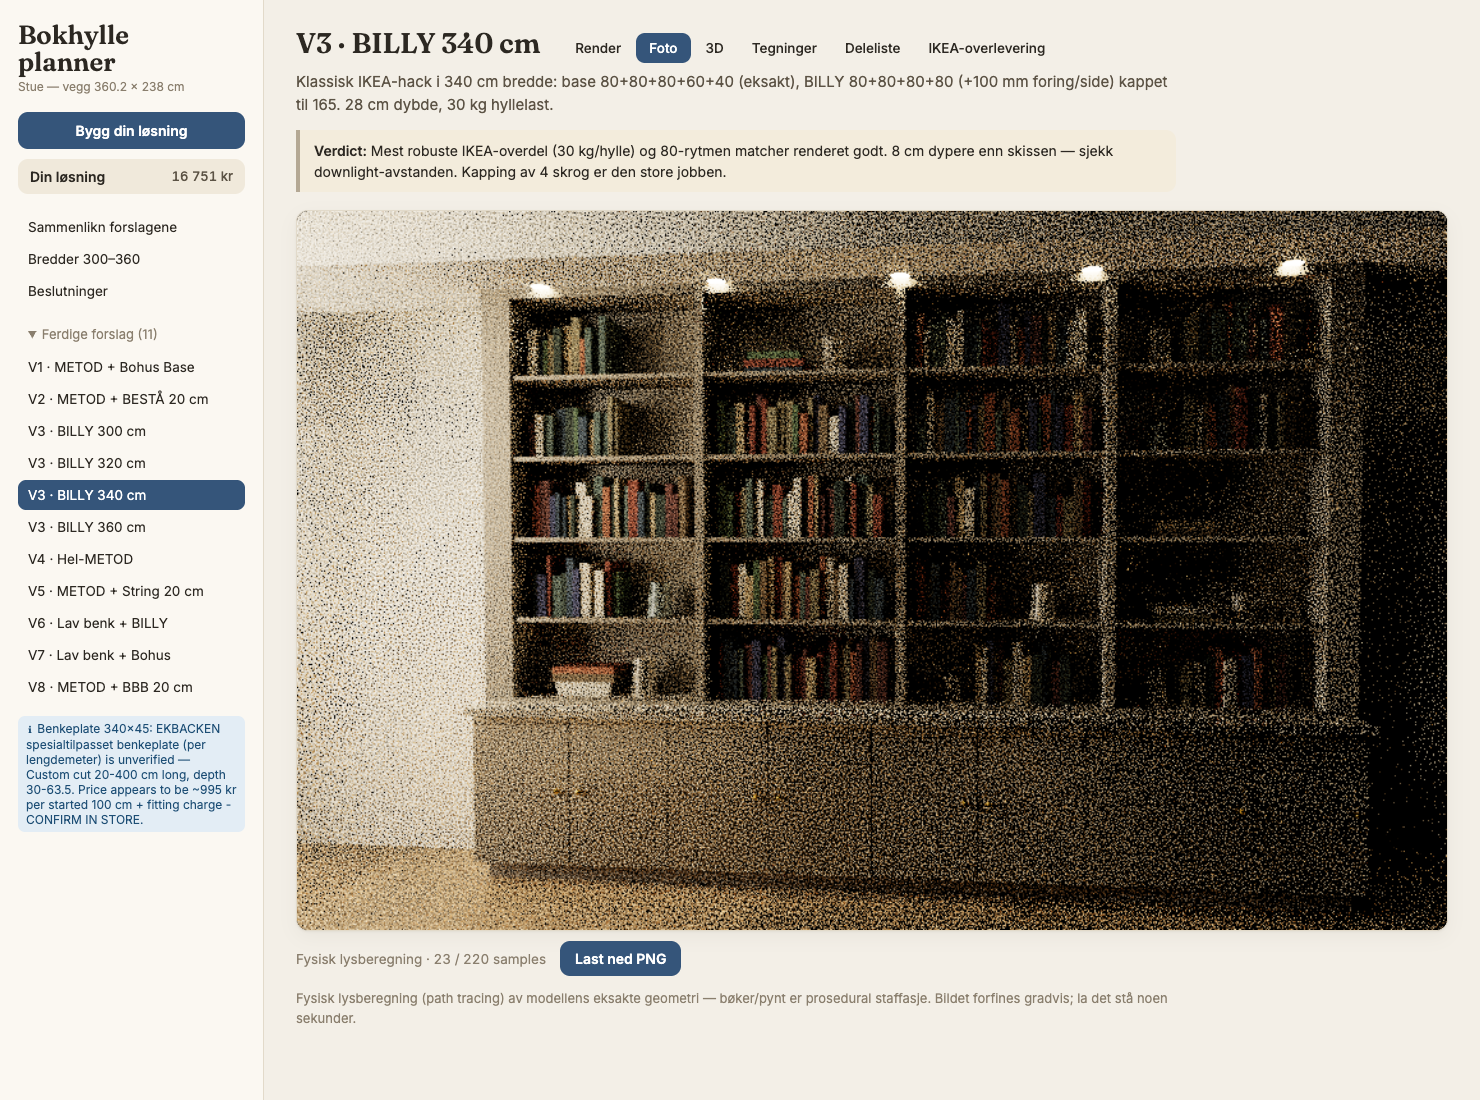
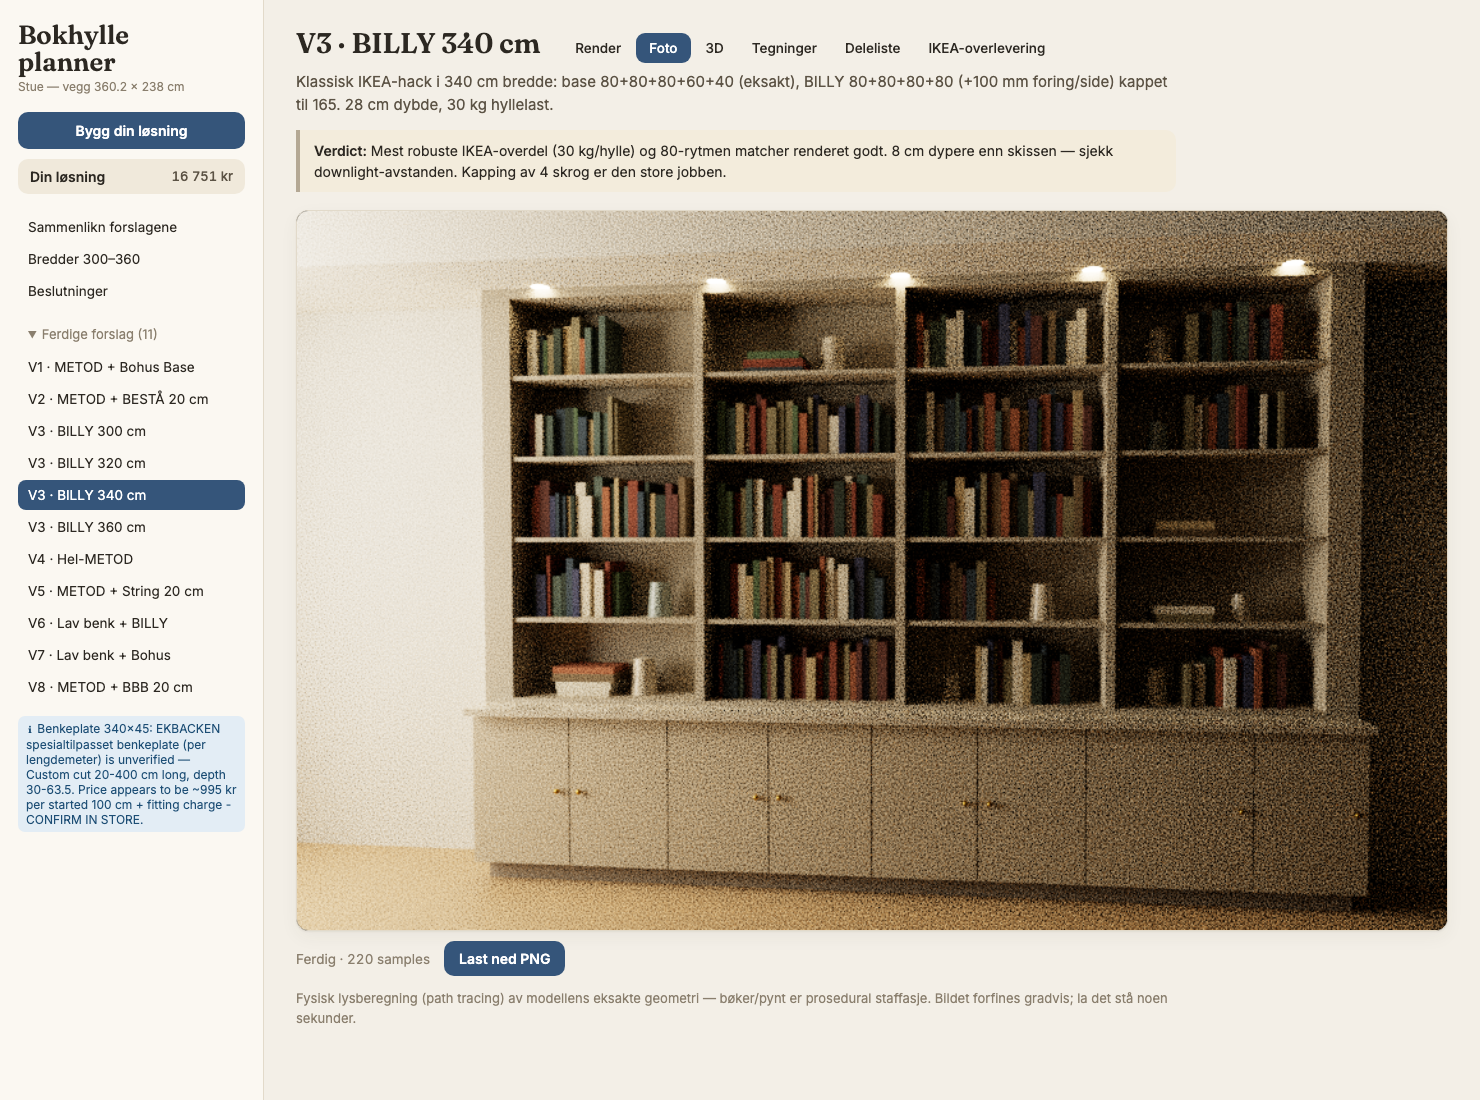
Foto: smaller path-tracer tiles + dynamic low-res for weak GPUs
Keeps the main thread responsive while sampling on software GL; real
GPUs converge the 220-sample image in seconds. Docs screenshot from a
completed 220-sample render.

diff --git a/src/views/photo.ts b/src/views/photo.ts
@@ -45,7 +45,9 @@ export class PhotoView {
         this.pt = new WebGLPathTracer(this.renderer);
         this.pt.bounces = 5;
         this.pt.renderScale = Math.min(1, 900 / w);
-        this.pt.tiles.set(2, 2);
+        // Small tiles keep the main thread responsive on weak GPUs.
+        this.pt.tiles.set(3, 3);
+        this.pt.dynamicLowRes = true;
         this.pt.setScene(scene, camera);
         const loop = (): void => {
           if (this.pt!.samples < TARGET_SAMPLES) {
